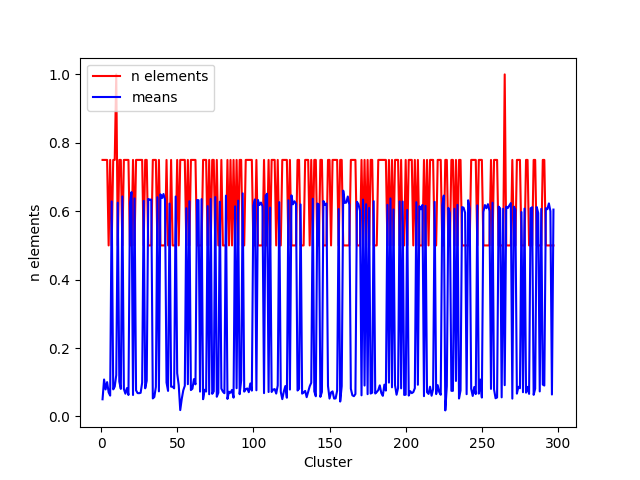
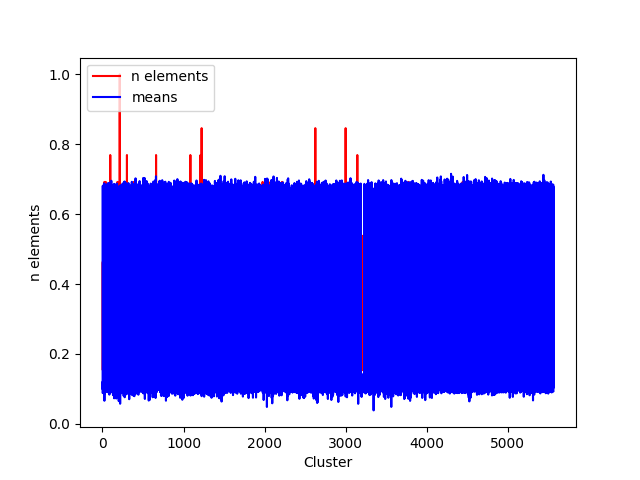
clusters previous version

diff --git a/src/yes_i_hate_it/generate_cluster.py b/src/yes_i_hate_it/generate_cluster.py
@@ -9,7 +9,8 @@ import stanza
 from gensim.models import Word2Vec, KeyedVectors
 from unidecode import unidecode
 from nltk.corpus import stopwords
-from sqlalchemy.orm import sessionmaker
+from sqlalchemy import Column, String, Integer, ForeignKey
+from sqlalchemy.orm import sessionmaker, relationship
 from sqlalchemy import create_engine
 import matplotlib.pyplot as plt
 
@@ -19,6 +20,23 @@ from yes_i_hate_it.config import TWEETS_DB_PATH
 from yes_i_hate_it.config import BASE
 from yes_i_hate_it.config import CLUSTER_LOG_FILE
 from yes_i_hate_it.config import WORD2VEC_MODEL_PATH, WORD2VEC_WV_PATH
+
+
+class Word(BASE):
+    """Word base clase to interact with database"""
+    __tablename__ = 'word'
+
+    word = Column(String, primary_key=True)
+    cluster_id = Column(Integer, ForeignKey("cluster.id"), unique=False)
+    cluster = relationship('Cluster', back_populates='words')
+
+
+class Cluster(BASE):
+    """Cluster base clase to interact with databse"""
+    __tablename__ = 'cluster'
+
+    id = Column(Integer, primary_key=True)
+    words = relationship('Word', back_populates='cluster')
 
 
 def get_tweets(session, amount):
@@ -62,15 +80,11 @@ def create_clusters(words):
     clusters = {} #{'c1': c1}
     clustered_words = {} #{'porterazos': 'c1'}
     new_cluster = 1
-    print('start for')
     for word in words:
         word_similarities = max_normalized_sim(word_vectors, word)
         best_similarity = 0
         for sim in word_similarities:
-            if sim[0] in clustered_words:
-                similarity = sim[1] * clusters[clustered_words[sim[0]]]['mean_similarity']
-            else:
-                similarity = sim[1]
+            similarity = sim[1]
             if similarity > best_similarity:
                 best_similarity = similarity
                 word_to_append = sim[0]
@@ -107,6 +121,7 @@ def create_clusters(words):
     # print(clustered_words)
     # print(clusters)
     represent_data(clusters)
+    return clusters
 
 
 def max_normalized_sim(word_vectors, word):
@@ -151,7 +166,7 @@ def represent_data(clusters):
     means = []
     for i, cluster in enumerate(clusters):
         x_cluster.append(i+1)
-        print(clusters[cluster]['words'])
+        #print(clusters[cluster]['words'])
         n_elements.append(len(clusters[cluster]['words']))
         means.append(clusters[cluster]['mean_similarity'])
 
@@ -176,158 +191,20 @@ def represent_data(clusters):
     plt.ylabel('mean similarity')
     plt.savefig('data/similarity.png')
     plt.clf()
+    
 
-
-# def process_word(actions_queue, words_queue, poisson_queue, clusters):
-#     """Return if a word should be added to a cluster or create a new one"""
-#     while True:
-#         word = words_queue.get()
-#         action = {'word': word, 'name': ''}
-#         word_vectors = KeyedVectors.load(str(WORD2VEC_WV_PATH), mmap='r')
-
-#         # first batch of words will trigger a new cluster creation for all of them
-#         # should this be handled? does it really matter?
-#         if not clusters:
-#             action['name'] = NEW_CLUSTER
-#             actions_queue.put(action)
-#             poisson_queue.put('finished')
-#             continue
-
-#         best_similarity = 0
-#         best_cluster = ''
-#         found_in = ''
-#         for key, cluster_words in clusters.items():
-#             similarity, is_found = get_cluster_similarity(word_vectors, cluster_words, word)
-#             if is_found:
-#                 found_in = key
-
-#             if not best_similarity:
-#                 best_similarity = similarity
-#                 best_cluster = key
-#                 continue
-
-#             if similarity > best_similarity:
-#                 best_similarity = similarity
-#                 best_cluster = key
-
-#         if best_similarity >= MIN_SIMILARITY:
-#             action['data'] = {}
-#             if found_in:
-#                 action['name'] = SWAP
-#                 action['data']['from_cluster'] = found_in
-#                 action['data']['to_cluster'] = best_cluster
-#             else:
-#                 action['name'] = ADD
-#                 action['data']['to_cluster'] = best_cluster
-#         else:
-#             action['name'] = NEW_CLUSTER
-#         actions_queue.put(action)
-#         poisson_queue.put('finished')
-
-
-# def chunk_words(words, size):
-#     """Split words set into small chunks"""
-#     return (words[pos:pos+size] for pos in range(0, len(words), size))
-
-
-# def generate_clusters(words):
-#     """Generate group of words called 'clusters'"""
-#     # instantiate cluster dictionary on a shared memory block
-#     manager = mp.Manager()
-#     clusters = manager.dict()
-
-#     # instantiate queue for multiprocessing communication
-#     actions_queue = mp.Queue()
-#     words_queue = mp.Queue()
-#     poisson_queue = mp.Queue()
-
-#     new_cluster = 0
-#     size = mp.cpu_count()
-#     processes_count = mp.cpu_count()
-
-#     processes = []
-#     for i in range(processes_count):
-#         process = mp.Process(target=process_word, args=(actions_queue, words_queue, poisson_queue, clusters))
-#         process.start()
-#         processes.append(process)
-
-#     for i in range(EPOCHS):
-#         logging.warning('Epoch %s', i+1)
-#         random.shuffle(words)
-#         current_words = 0
-#         for _, chunk in enumerate(chunk_words(words, size)):
-#             current_words += len(chunk)
-#             for word, process in zip(chunk, processes):
-#                 words_queue.put(word)
-
-#             returns = []
-#             for process in processes:
-#                 returns.append(actions_queue.get())
-
-#             poisson_pills = 0
-#             while poisson_pills < processes_count:
-#                 poisson_queue.get()
-#                 poisson_pills += 1
-
-#             for ret in returns:
-#                 if ret['name'] == NEW_CLUSTER:
-#                     key = f'C{new_cluster}'
-#                     clusters[key] = manager.list()
-#                     clusters[key].append(ret['word'])
-#                     new_cluster += 1
-#                 elif ret['name'] == ADD:
-#                     cluster_key = ret['data']['to_cluster']
-#                     clusters[cluster_key].append(ret['word'])
-#                 elif ret['name'] == SWAP:
-#                     from_cluster = ret['data']['from_cluster']
-#                     to_cluster = ret['data']['to_cluster']
-
-#                     # delete word from current cluster holder and delete cluster if it has no words
-#                     clusters[from_cluster].remove(ret['word'])
-#                     if not clusters[from_cluster]:
-#                         clusters.pop(from_cluster)
-
-#                     # add word to cluster
-#                     clusters[to_cluster].append(ret['word'])
-
-#             hashtags_amount = round(current_words * 20 / len(words))
-#             hashtags = '['
-#             for i in range(1, 20):
-#                 if i < hashtags_amount:
-#                     hashtags += '#'
-#                 else:
-#                     hashtags += ' '
-#             hashtags += ']'
-#             print(f'Words: {current_words}/{len(words)} || Clusters: {len(clusters)} || {hashtags}', end='\r')
-#             sys.stdout.flush()
-#         print('')
-
-
-# def get_cluster_similarity(word_vectors, cluster_words, word):
-#     """Return average similary between words """
-#     similarity = 0
-#     # create copy of list to avoid modifying list on multiprocessing
-#     cluster_words = list(cluster_words)
-
-#     is_found = False
-#     if word in cluster_words:
-#         cluster_words.remove(word)
-#         is_found = True
-
-#     if not cluster_words:
-#         return -1, is_found
-
-#     for cluster_word in cluster_words:
-#         similarity += word_vectors.similarity(word, cluster_word)
-#     return similarity / len(cluster_words), is_found
-
-
-# def find_word(word, clusters):
-#     """Find word across all chunks and if found return chunk key"""
-#     for key, words in clusters.items():
-#         if word in words:
-#             return key
-
+def generate_boc(clusters, session):
+    word_storage = []
+    cluster_storage = []
+    for i, cluster in enumerate(clusters):
+        new_cluster = Cluster()
+        for word in clusters[cluster]['words']:
+            new_word = Word(word=word, cluster=new_cluster)
+            word_storage.append(new_word)
+        session.add_all(word_storage)
+        word_storage = []
+        session.add(new_cluster)
+        session.commit()
 
 def main():
     """Main function"""
@@ -348,7 +225,7 @@ def main():
     session = session_maker()
 
     processed_tweets = []
-    tweets = get_tweets(session, 100)
+    tweets = get_tweets(session, 10)
 
     while tweets:
         for tweet in tweets:
@@ -372,7 +249,8 @@ def main():
     del processed_tweets
 
     clean_words = list(clean_words)
-    create_clusters(clean_words)
+    clusters = create_clusters(clean_words)
+    generate_boc(clusters, session)
 
 
 # download stopwords
@@ -380,12 +258,6 @@ nltk.download('stopwords')
 nlp = stanza.Pipeline(lang='es', processors='tokenize,mwt,pos,lemma')
 
 EPOCHS = 10
-MIN_SIMILARITY = 0.3
-
-# Acctions returned from processes
-ADD = 'ADD'
-SWAP = 'SWAP'
-NEW_CLUSTER = 'NEW_CLUSTER'
 
 if __name__ == '__main__':
     main()
